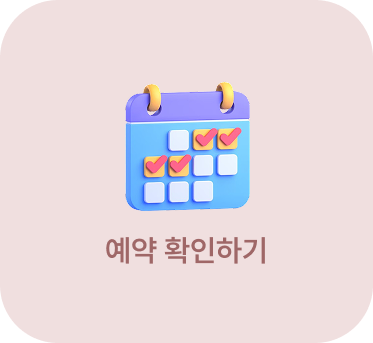
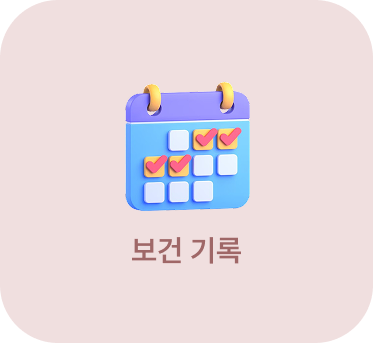
학번 이름 비밀번호 예약하기 / 보건 기록 으로 수정 첫화면 로그인 페이지로 수정

Changed region(s): [[0.2654, 0.6706, 0.7078, 0.7872]]

diff --git a/flask_server/templates/information.html b/flask_server/templates/information.html
@@ -30,7 +30,7 @@
 
     .confirm {
       position: absolute;
-      top: 450px;
+      top: 500px;
       left: 170px;
       width: 397px;
       height: 60px;
@@ -66,14 +66,14 @@
 
 <body>
   <div class="container">
-    <img class="rectangle" src="static/img/rectangle_information.png" />
+    <img class="rectangle" src="{{ url_for('static', filename='img/rectangle_information.png') }}" />
 
     <form action="/information" method="post">
       <!-- 이름 입력 -->
-      <input type="text" name="name" class="icon-input" placeholder="이름" style="top: 150px; left: 240px;" />
+      <input type="text" name="name" class="icon-input" placeholder="이름" style="top: 130px; left: 220px;" required />
 
       <!-- 학년 선택 -->
-      <select name="grade" class="icon-input" style="top: 230px; left: 240px;">
+      <select name="grade" class="icon-input" style="top: 205px; left: 220px;" required>
         <option disabled selected>학년</option>
         <option value="1">1학년</option>
         <option value="2">2학년</option>
@@ -81,7 +81,7 @@
       </select>
 
       <!-- 반 선택 -->
-      <select name="ban" class="icon-input" style="top: 300px; left: 240px;">
+      <select name="ban" class="icon-input" style="top: 280px; left: 220px;" required>
         <option disabled selected>반</option>
         {% for class_num in range(1, 7) %}
         <option value="{{ class_num }}">{{ class_num }}반</option>
@@ -89,17 +89,19 @@
       </select>
 
       <!-- 번호 선택 -->
-      <select name="number" class="icon-input" style="top: 380px; left: 240px;">
+      <select name="number" class="icon-input" style="top: 360px; left: 220px;" required>
         <option disabled selected>번호</option>
         {% for num in range(1, 19) %}
         <option value="{{ num }}">{{ num }}번</option>
         {% endfor %}
       </select>
 
+      <!-- 비밀번호 입력 -->
+      <input type="text" name="password" class="icon-input" placeholder="비밀번호를 입력해주세요" style="top: 435px; left: 220px;" required />
+
+      <!-- 제출 버튼 -->
       <button type="submit" style="all: unset; border: none; padding: 0; background: none;">
-        <a href="{{ url_for('cure_method') }}">
-          <img class="confirm" src="{{ url_for('static', filename='img/confirm.png') }}" />
-        </a>
+        <img class="confirm" src="{{ url_for('static', filename='img/confirm.png') }}" />
       </button>
 
     </form>

diff --git a/flask_server/app.py b/flask_server/app.py
@@ -13,8 +13,8 @@ reservations = []
 
 @app.route('/')
 def index():
-    return render_template('index.html')
-
+    return render_template('information.html')
+    
 @app.route('/move', methods=['POST'])
 def move():
     select = request.form['select']
